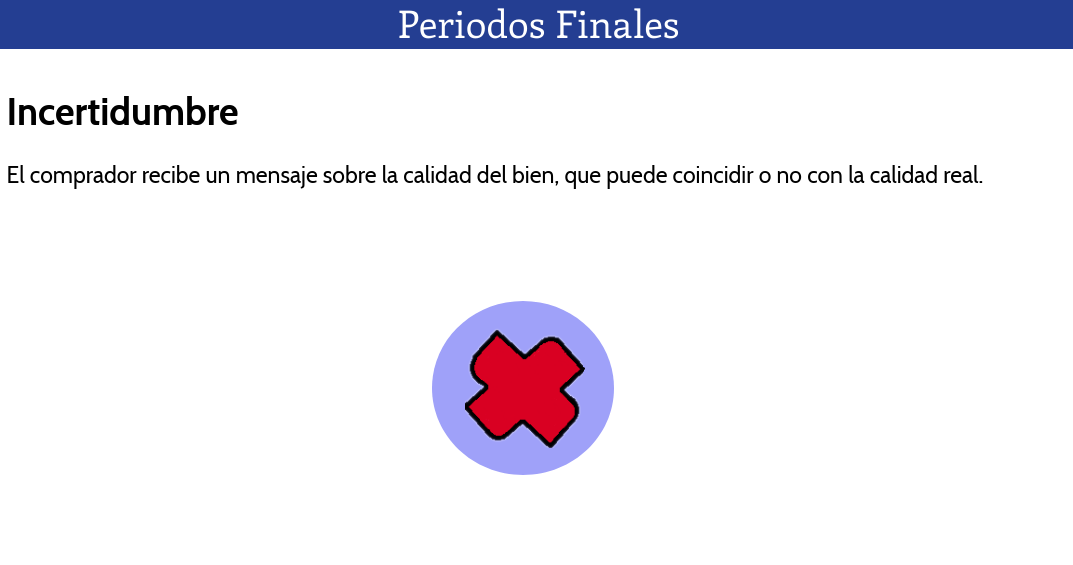
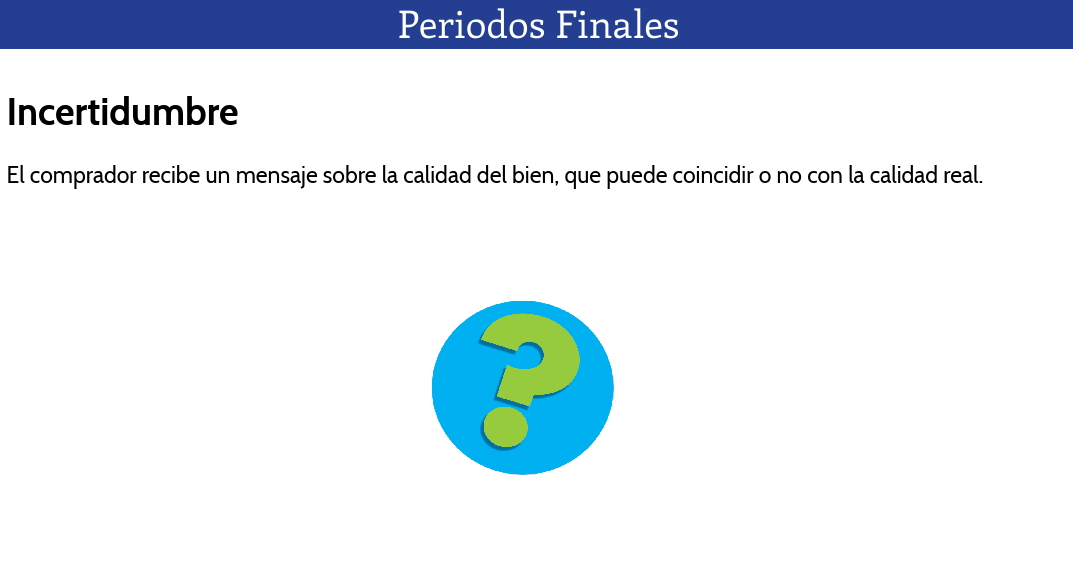
Signals v3.2.5
Actualización de iconos

diff --git a/signals/templates/signals/DecisionVendedorCon.html b/signals/templates/signals/DecisionVendedorCon.html
@@ -130,17 +130,18 @@
 
     {% if tratamiento %}
         {% if numeroronda >= rondastotales %}
-            <img  class="imagen" src = "{% static 'signals/incertidumbre_fondo.PNG' %}"/>
+            <img  class="imagen" src = "{% static 'signals/incertidumbre_azul.png' %}"/>
         {% else %}
-            <img  class="imagen" src = "{% static 'signals/garantia_fondo.PNG' %}"/>
+            <img  class="imagen" src = "{% static 'signals/garantia_verde.png' %}"/>
         {% endif %}
     {% else %}
         {% if numeroronda >= rondastotales %}
-           <img  class="imagen" src = "{% static 'signals/garantia_fondo.PNG' %}"/>
+           <img  class="imagen" src = "{% static 'signals/garantia_azul.png' %}"/>
         {% else %}
-            <img class="imagen" src = "{% static 'signals/incertidumbre_fondo.PNG' %}"/>
+            <img class="imagen" src = "{% static 'signals/incertidumbre_verde.png' %}"/>
         {% endif %}
     {% endif %}
+
     <script>
         function validar_si()
         {

diff --git a/signals/templates/signals/DecisionCompradorCon.html b/signals/templates/signals/DecisionCompradorCon.html
@@ -125,15 +125,15 @@
 
     {% if tratamiento %}
         {% if numeroronda >= rondastotales %}
-            <img  class="imagen" src = "{% static 'signals/incertidumbre_fondo.PNG' %}"/>
+            <img  class="imagen" src = "{% static 'signals/incertidumbre_azul.png' %}"/>
         {% else %}
-            <img  class="imagen" src = "{% static 'signals/garantia_fondo.PNG' %}"/>
+            <img  class="imagen" src = "{% static 'signals/garantia_verde.png' %}"/>
         {% endif %}
     {% else %}
         {% if numeroronda >= rondastotales %}
-           <img  class="imagen" src = "{% static 'signals/garantia_fondo.PNG' %}"/>
+           <img  class="imagen" src = "{% static 'signals/garantia_azul.png' %}"/>
         {% else %}
-            <img class="imagen" src = "{% static 'signals/incertidumbre_fondo.PNG' %}"/>
+            <img class="imagen" src = "{% static 'signals/incertidumbre_verde.png' %}"/>
         {% endif %}
     {% endif %}
 

diff --git a/signals/templates/signals/DecisionCompradorSin.html b/signals/templates/signals/DecisionCompradorSin.html
@@ -116,15 +116,15 @@
 
     {% if tratamiento %}
         {% if numeroronda >= rondastotales %}
-            <img  class="imagen" src = "{% static 'signals/incertidumbre_fondo.PNG' %}"/>
+            <img  class="imagen" src = "{% static 'signals/incertidumbre_azul.png' %}"/>
         {% else %}
-            <img  class="imagen" src = "{% static 'signals/garantia_fondo.PNG' %}"/>
+            <img  class="imagen" src = "{% static 'signals/garantia_verde.png' %}"/>
         {% endif %}
     {% else %}
         {% if numeroronda >= rondastotales %}
-           <img  class="imagen" src = "{% static 'signals/garantia_fondo.PNG' %}"/>
+           <img  class="imagen" src = "{% static 'signals/garantia_azul.png' %}"/>
         {% else %}
-            <img class="imagen" src = "{% static 'signals/incertidumbre_fondo.PNG' %}"/>
+            <img class="imagen" src = "{% static 'signals/incertidumbre_verde.png' %}"/>
         {% endif %}
     {% endif %}
 

diff --git a/signals/templates/signals/DecisionVendedorSin.html b/signals/templates/signals/DecisionVendedorSin.html
@@ -118,15 +118,15 @@
 
     {% if tratamiento %}
         {% if numeroronda >= rondastotales %}
-            <img  class="imagen" src = "{% static 'signals/incertidumbre_fondo.PNG' %}"/>
+            <img  class="imagen" src = "{% static 'signals/incertidumbre_azul.png' %}"/>
         {% else %}
-            <img  class="imagen" src = "{% static 'signals/garantia_fondo.PNG' %}"/>
+            <img  class="imagen" src = "{% static 'signals/garantia_verde.png' %}"/>
         {% endif %}
     {% else %}
         {% if numeroronda >= rondastotales %}
-           <img  class="imagen" src = "{% static 'signals/garantia_fondo.PNG' %}"/>
+           <img  class="imagen" src = "{% static 'signals/garantia_azul.png' %}"/>
         {% else %}
-            <img class="imagen" src = "{% static 'signals/incertidumbre_fondo.PNG' %}"/>
+            <img class="imagen" src = "{% static 'signals/incertidumbre_verde.png' %}"/>
         {% endif %}
     {% endif %}
 

diff --git a/signals/templates/signals/Ganancia.html b/signals/templates/signals/Ganancia.html
@@ -98,15 +98,15 @@
 
     {% if tratamiento %}
         {% if numeroronda >= rondastotales %}
-            <img  class="imagen" src = "{% static 'signals/incertidumbre_fondo.PNG' %}"/>
+            <img  class="imagen" src = "{% static 'signals/incertidumbre_azul.png' %}"/>
         {% else %}
-            <img  class="imagen" src = "{% static 'signals/garantia_fondo.PNG' %}"/>
+            <img  class="imagen" src = "{% static 'signals/garantia_verde.png' %}"/>
         {% endif %}
     {% else %}
         {% if numeroronda >= rondastotales %}
-           <img  class="imagen" src = "{% static 'signals/garantia_fondo.PNG' %}"/>
+           <img  class="imagen" src = "{% static 'signals/garantia_azul.png' %}"/>
         {% else %}
-            <img class="imagen" src = "{% static 'signals/incertidumbre_fondo.PNG' %}"/>
+            <img class="imagen" src = "{% static 'signals/incertidumbre_verde.png' %}"/>
         {% endif %}
     {% endif %}
 

diff --git a/signals/templates/signals/presentacion.html b/signals/templates/signals/presentacion.html
@@ -29,7 +29,7 @@
       }
 </style>
 
-<img  src = "{% static 'signals/presentacion.png' %}"/>
+<img  src = "{% static 'signals/presentacion_sig.png' %}"/>
 
 <p> </p>
 
